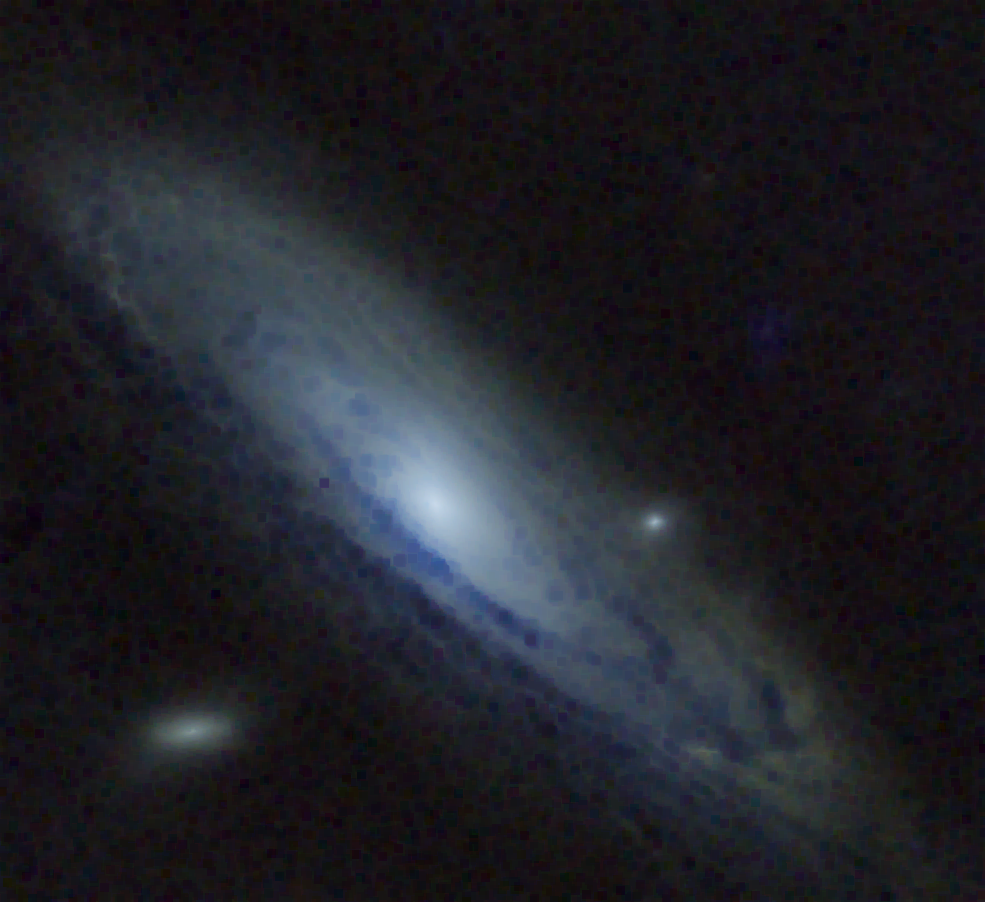
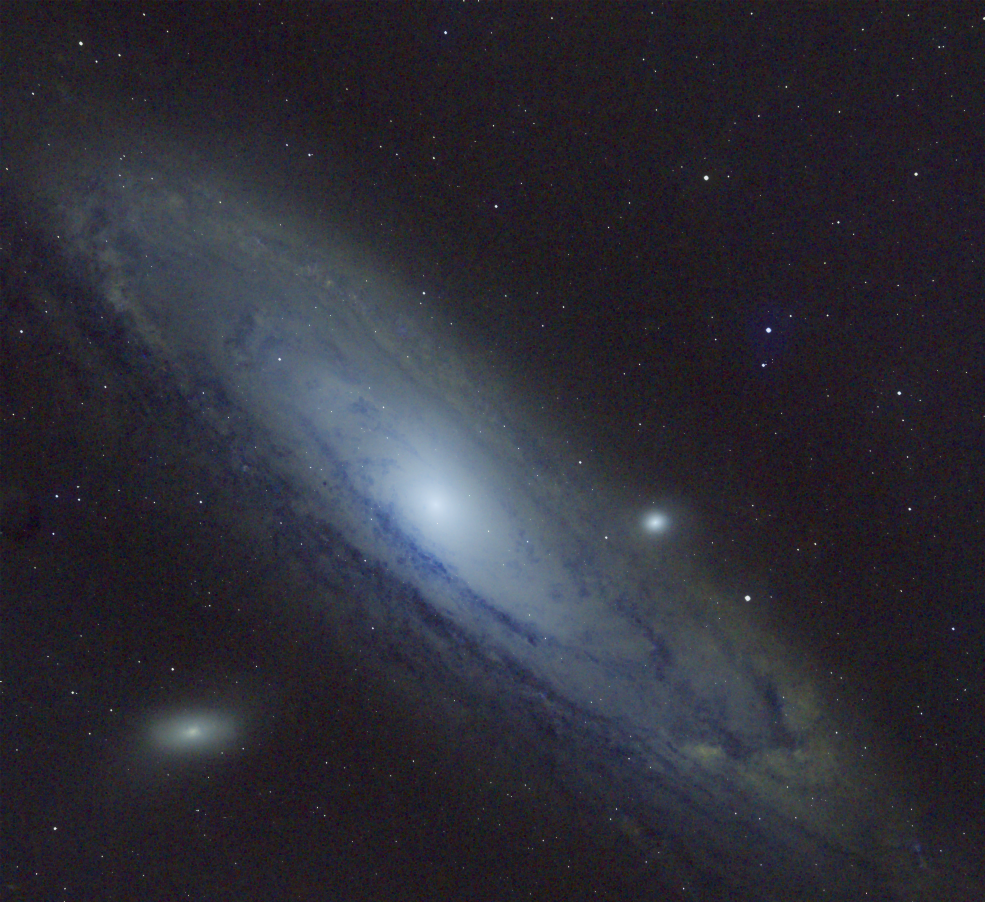
MAJ_couleurs_canaux

Changed region(s): [[0.0, 0.0, 1.0, 1.0], [0.6396, 0.6829, 0.6701, 0.745], [0.6701, 0.745, 0.7005, 0.7761]]

diff --git a/erosion.py b/erosion.py
@@ -21,34 +21,41 @@ if data.ndim == 3:
     # Color image - need to transpose to (height, width, channels)
     if data.shape[0] == 3:  # If channels are first: (3, height, width)
         data = np.transpose(data, (1, 2, 0))
-    # If already (height, width, 3), no change needed
-    
+
+    data = data[:, :, [2, 1, 0]]
+
     # Normalize the entire image to [0, 1] for matplotlib
     data_normalized = (data - data.min()) / (data.max() - data.min())
-    
+
     # Save the data as a png image (no cmap for color images)
     plt.imsave('./results/original.png', data_normalized)
-    
+
     # Normalize each channel separately to [0, 255] for OpenCV
     image = np.zeros_like(data, dtype='uint8')
     for i in range(data.shape[2]):
         channel = data[:, :, i]
-        image[:, :, i] = ((channel - channel.min()) / (channel.max() - channel.min()) * 255).astype('uint8')
+        image[:, :, i] = (
+            (channel - channel.min()) /
+            (channel.max() - channel.min()) * 255
+        ).astype('uint8')
 else:
     # Monochrome image
     plt.imsave('./results/original.png', data, cmap='gray')
-    
+
     # Convert to uint8 for OpenCV
-    image = ((data - data.min()) / (data.max() - data.min()) * 255).astype('uint8')
-
-
+    image = (
+        (data - data.min()) /
+        (data.max() - data.min()) * 255
+    ).astype('uint8')
 
 # Define a kernel for erosion
-kernel = np.ones((9,9), np.uint8)
+kernel = np.ones((2,2), np.uint8)
+
 # Perform erosion
 eroded_image = cv.erode(image, kernel, iterations=1)
 
 # Save the eroded image 
+eroded_image = cv.cvtColor(eroded_image, cv.COLOR_RGB2BGR)
 cv.imwrite('./results/eroded.png', eroded_image)
 
 # Close the file
